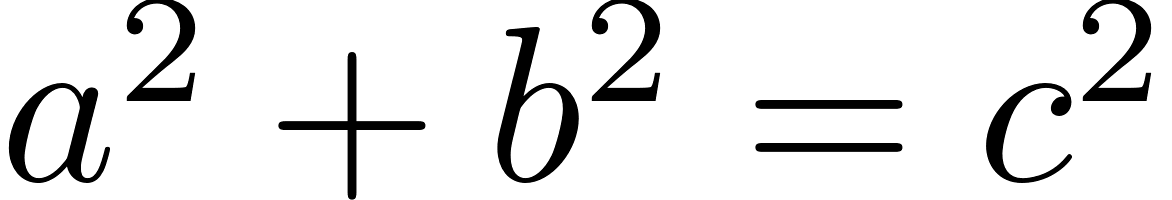
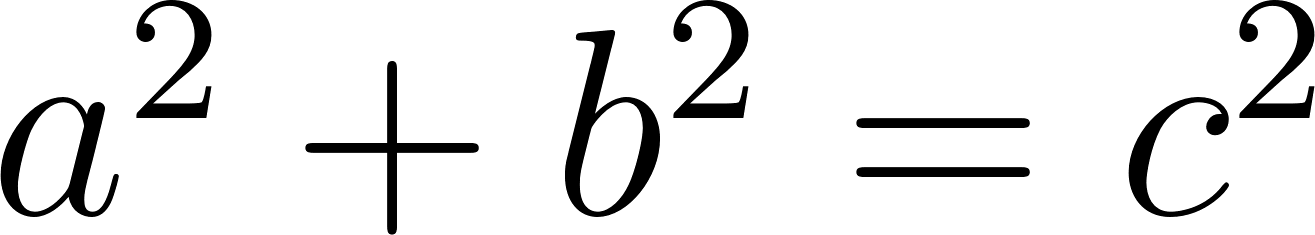
Solved some problems with LaTeX rendering

diff --git a/pdf-latex_test/test.py b/pdf-latex_test/test.py
@@ -1,5 +1,8 @@
 # +--------------------------------------------------------------------+
 # |                          TEST IN PROGRESS                          |
+# | [ ] Turkish characters not rendering correctly (contacted          |
+# |     support.)                                                      |
+# | [X] Inline LaTeX equaton rendering                                 |
 # +--------------------------------------------------------------------+
 
 import os
@@ -72,8 +75,11 @@ class LaTeXConverter:
       wrapped_equation = f"\\[{equation}\\]"
             
     return r"""
-\documentclass[preview]{standalone}
+\documentclass[12pt]{article}
+\special{papersize=3in,5in}
 \usepackage{amsmath,amsfonts,amssymb}
+\pagestyle{empty}
+\setlength{\parindent}{0in}
 \begin{document}
 %s
 \end{document}
@@ -174,23 +180,20 @@ def render_latex (text):
       image_path = "eq{id}.png".format(id=latex_counter)
       with Image.open(image_path) as img:
           img_width, img_height = img.size
-      text_to_be_rendered += "<img src=\"{src}\" valign=\"middle\" height=\"{resized_height}\" width=\"{resized_width}\"/>".format(src=image_path, resized_width=img_width/20, resized_height=img_height/20)
+      text_to_be_rendered += "<img src=\"{src}\" valign=\"-1.5\" height=\"{resized_height}\" width=\"{resized_width}\"/>".format(src=image_path, resized_width=img_width/25, resized_height=img_height/25)
       latex_counter += 1
     else:
       text_to_be_rendered += section
 
-  print(text_to_be_rendered)
+  # print(text_to_be_rendered)
 
   return text_to_be_rendered
 
-sample_text = """
-Lorem ipsum dolor sit amet, consectetur adipiscing elit. $Phasellus$ dapibus venenatis leo ac suscipit. Pellentesque ut nisl eu velit tempus gravida. Sed ut consectetur eros. Integer at hendrerit orci. Donec sagittis hendrerit elementum. Pellentesque sit amet libero nec lacus dictum aliquet quis a mi. Duis interdum nunc non lacus tempus ornare. <i>Etiam enim ante, <b>tincidunt eu nunc et,</b> scelerisque pretium purus. Fusce molestie pellentesque malesuada. Sed imperdiet lectus quam, id dignissim ligula convallis non.</i> $a^2 + b^2 = c^2$
-"""
+sample_text = "Buradaki $(n-k)!$'i sanki seçmediğimiz elemanların farklı sıralamalarını eliyormuş gibi düşünebiliriz"
 
-render_text = render_latex(sample_text)
+render_text = render_latex(sample_text).encode("utf-8")
 
 styleSheet = getSampleStyleSheet()
-# style = styleSheet['BodyText']
 style = ParagraphStyle(
     name="paragraf", 
     fontName='Times', 
@@ -201,9 +204,7 @@ style = ParagraphStyle(
     firstLineIndent=inch/2,
     alignment= TA_JUSTIFY, 
     textColor="black",
-    hyphenationLang="tr_TR",
-    embeddedHyphenation=1,
-    uriWasteReduce=0.3  
+    uriWasteReduce=0.3 
 )
 
 P=Paragraph(render_text,style)
